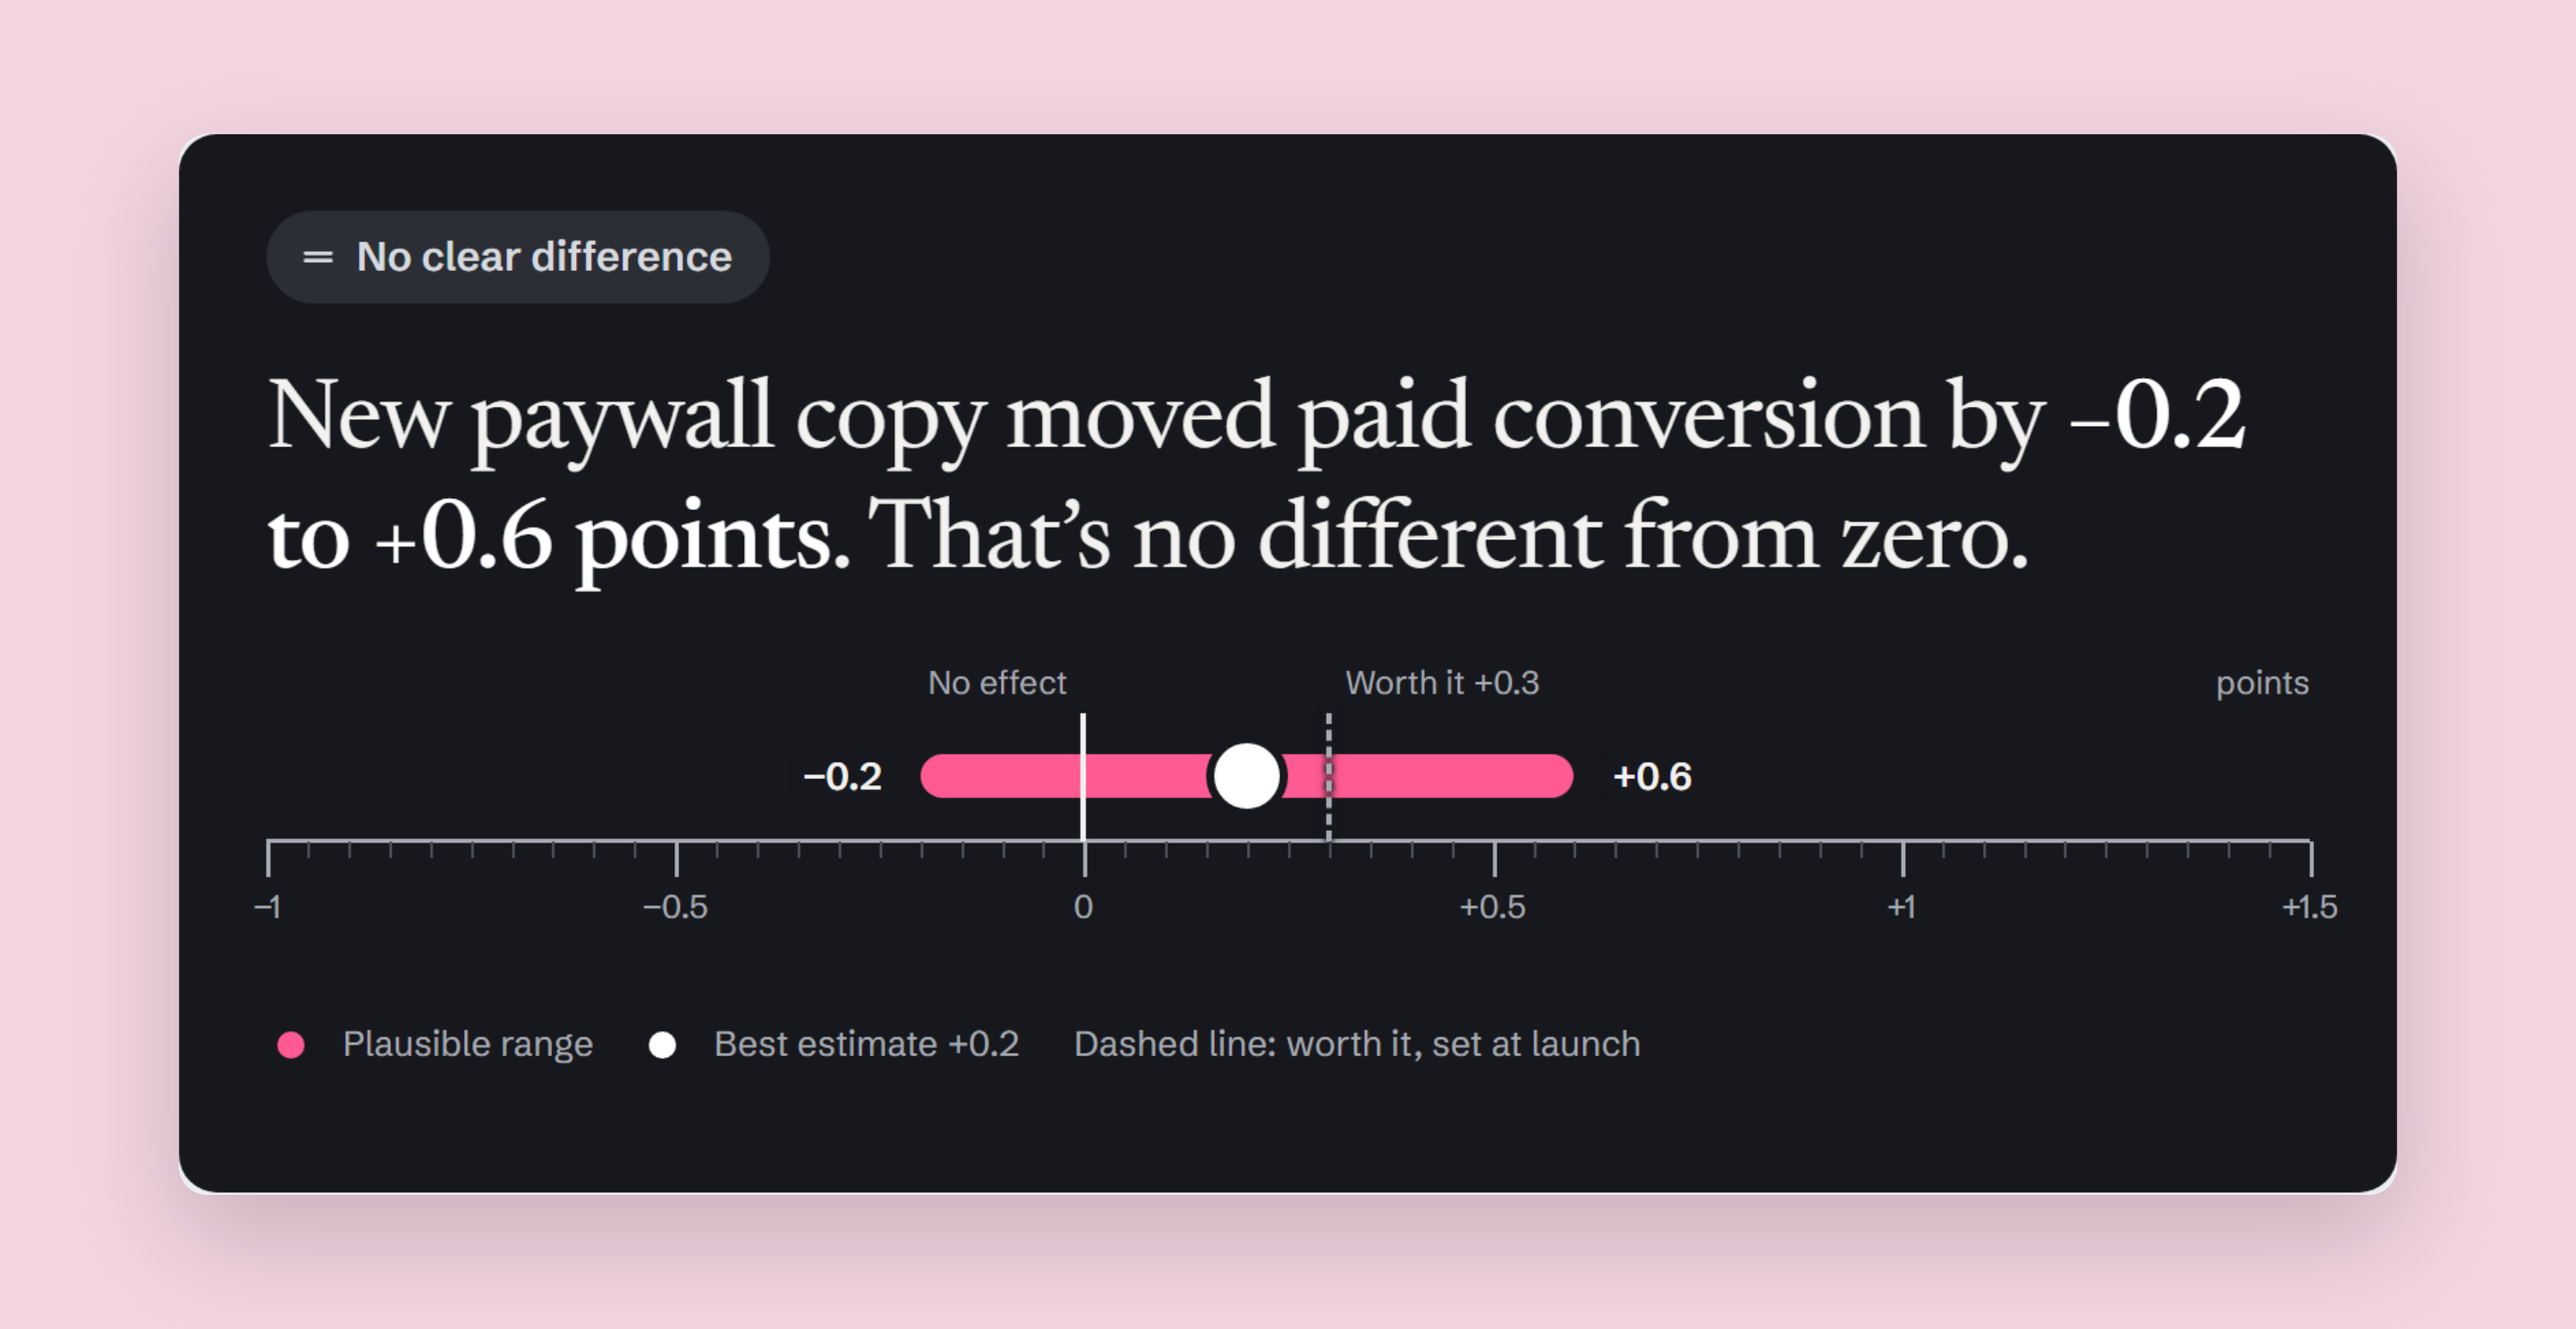
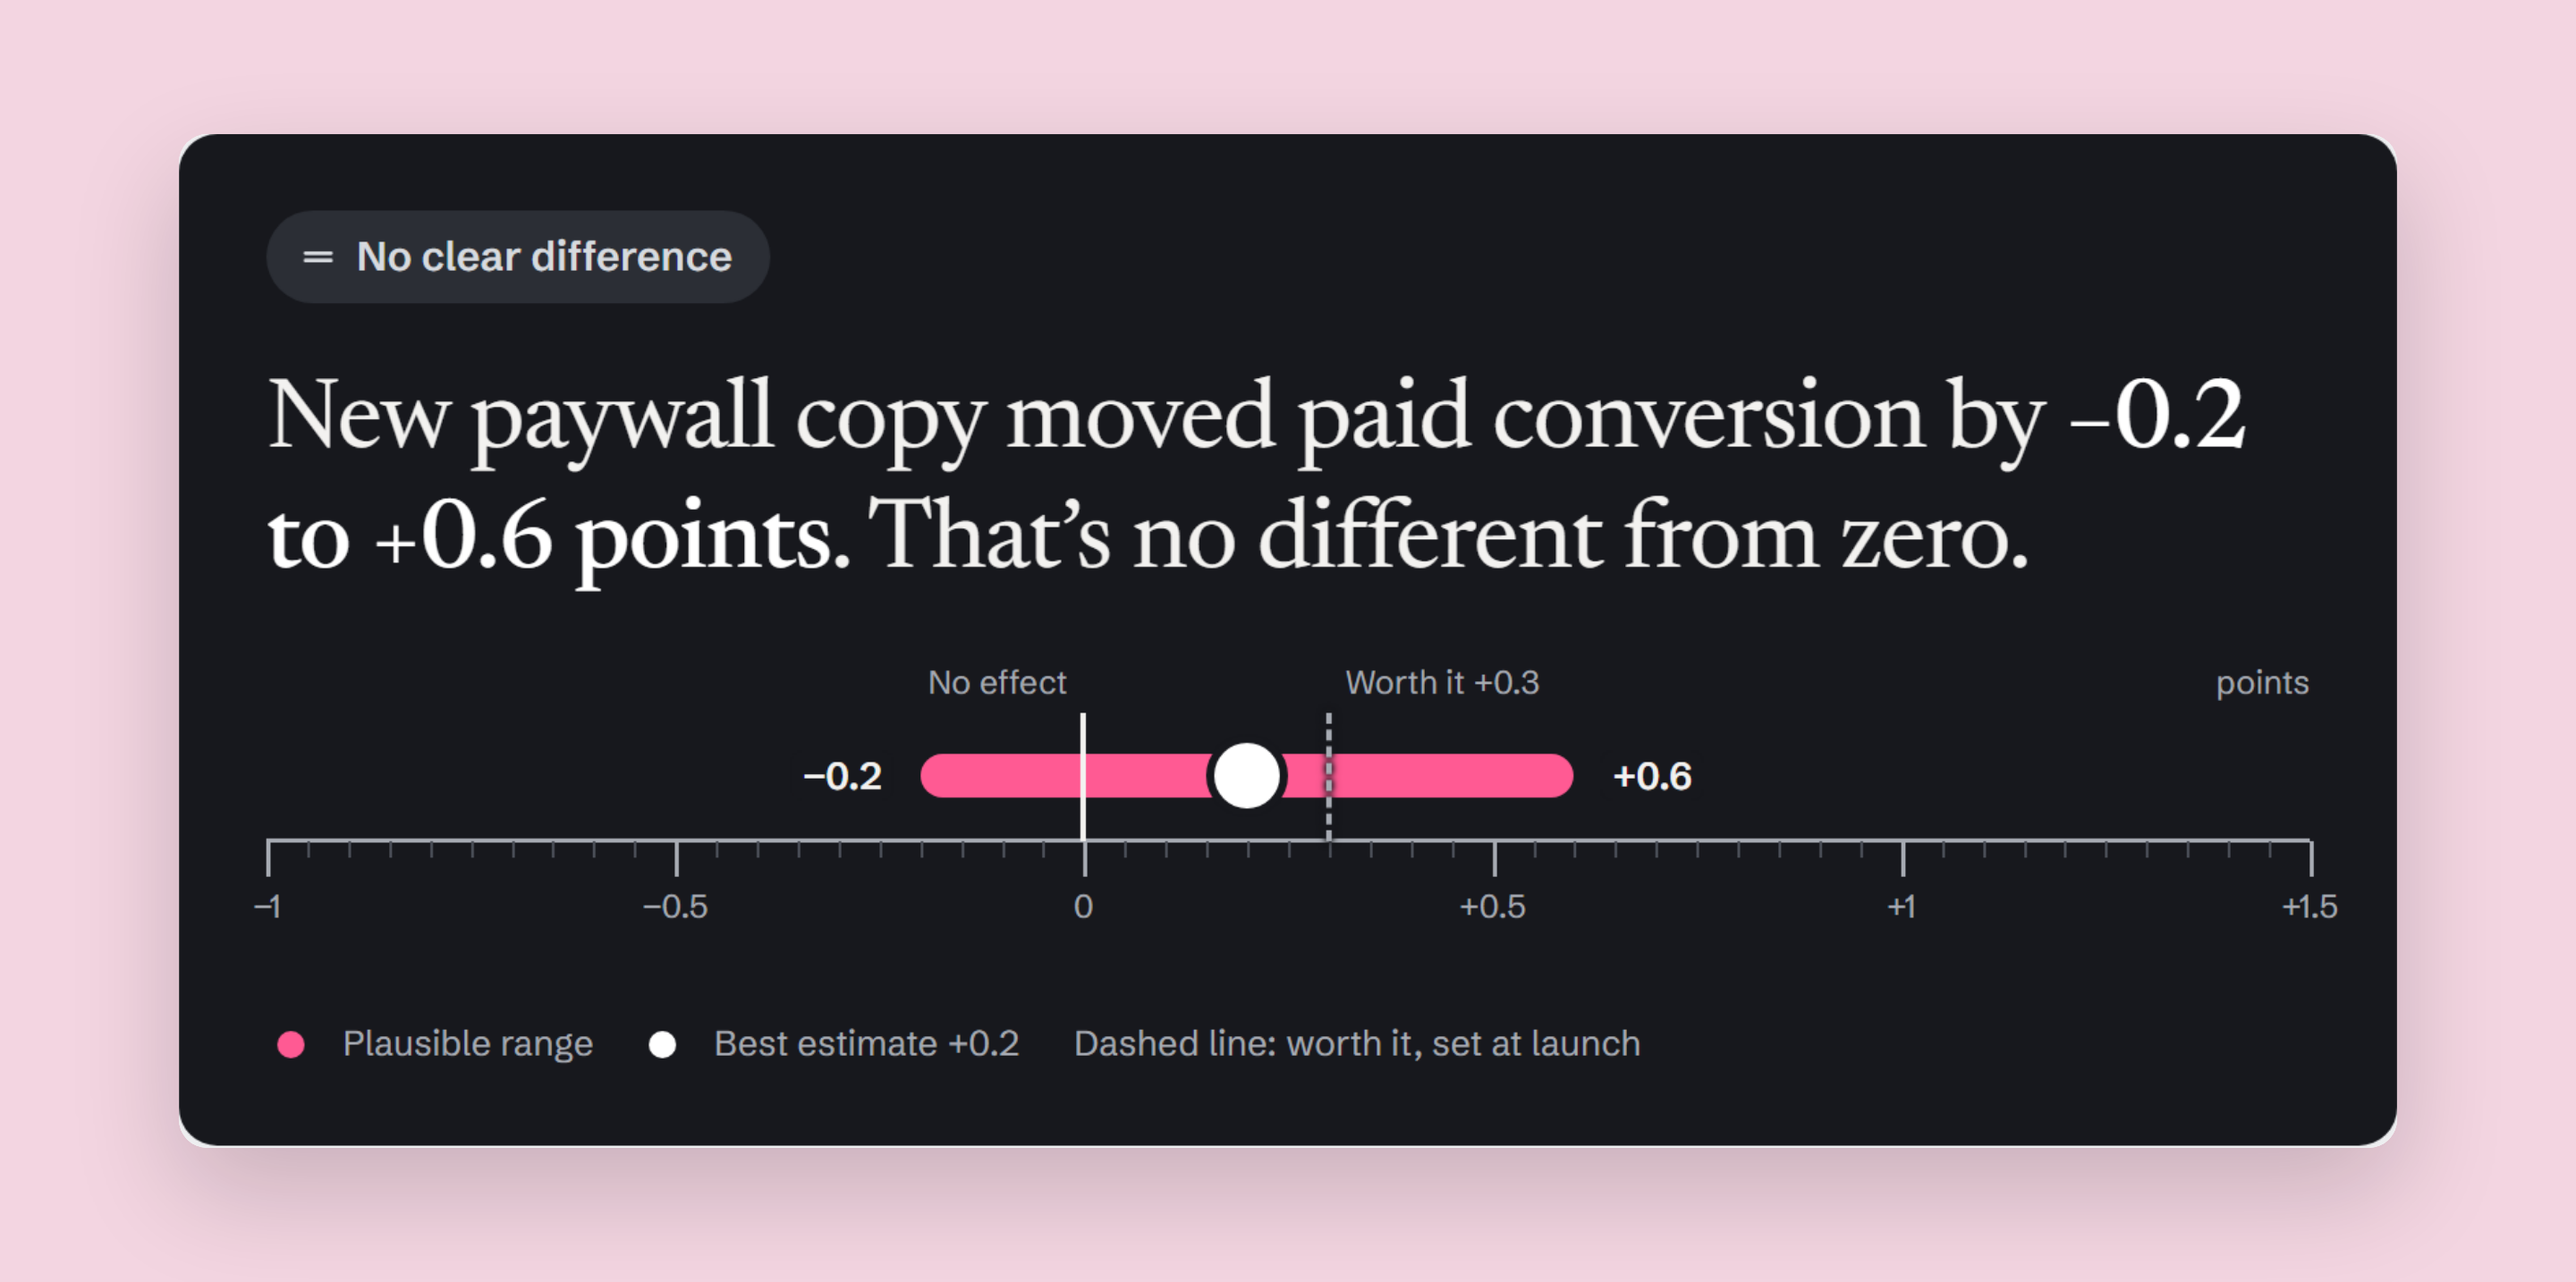
Mira: fill the dead space in the app screens and case images
Before screen re-laid out: lift and table side by side, a full-height
chart, all 12 segments sorted by lift. Result screens end the plan panel
with the checks made before the verdict and read the declared segments in
one line. Setup shows the decision rule fixed at launch and how the plan
changes if the worth-it line moves. Case images 01, 02, 07, 09, 10 updated.

diff --git a/mira-experiment-results.html b/mira-experiment-results.html
@@ -52,7 +52,7 @@
 <p class="reveal">Every screen shows Mira’s demo workspace, Rozklad, a class-booking app for gyms: 182,000 visits in 30&nbsp;days, 1,690 paid plans. The old results page put the lift in big type next to a green “Significant” badge, with the p-value in small grey text. Results appeared from the first hour of a test.</p>
 <p class="reveal">Page logs showed how it was read. 72% of visits to a result lasted under 40&nbsp;seconds, only 9% scrolled down to the interval, and 58% of views came before the planned sample was in.</p>
 <p class="reveal">This is a solo concept, written the way it would run in a team: a product lead, an analyst, two front-end engineers and me. I ran the research, the design and the test. Six weeks of design, then an eight-week pilot.</p>
-<div class="media reveal"><figure class="fig"><img src="img/mira-experiment-results/02-before.webp" alt="The old results page: +18% in big type with a green Significant badge on day 3 of 14, the p-value in small grey text, and a segment table with another Significant badge" width="2048" height="1316" loading="lazy" decoding="async"><figcaption>Before: lift in big type, a green badge on day 3, the p-value in small print</figcaption></figure></div>
+<div class="media reveal"><figure class="fig"><img src="img/mira-experiment-results/02-before.webp" alt="The old results page on day 3 of 14: +18% in big type with a green Significant badge and the p-value in small grey text, conversion by day, and all 12 segments sorted by lift with one marked Significant" width="2048" height="1316" loading="lazy" decoding="async"><figcaption>Before: lift in big type, a green badge on day 3, the p-value in small print</figcaption></figure></div>
 <h2 class="reveal">Constraints</h2>
 <ul class="reveal"><li><strong>The statistics engine stays.</strong> Fixed-sample tests, as the teams already plan them. I could change how a result reads, not the maths behind it.</li><li><strong>Analysts still need p-values.</strong> They sign results off, and someone asks them “is this significant?” six times a week.</li><li><strong>The screen can’t invent a threshold.</strong> What counts as worth shipping is the team’s call, so it has to be set before the test starts.</li><li><strong>The page itself can’t be A/B tested.</strong> Whether a decision was right shows up months later, in a holdout.</li></ul>
 <h2 class="reveal">Process</h2>
@@ -76,7 +76,7 @@
 <h2 class="reveal">A sentence first, then the range</h2>
 <p class="reveal">The result opens with a sentence a product manager can repeat at review, with the range in it: “likely raises 7-day repeat bookings by +0.9 to +3.3&nbsp;points.” Under it, the ruler shows zero, the worth-it line the team set at launch and the plausible range. Mira comes from “міра”, Ukrainian for “measure”, so the ruler is the product’s one memorable element: a dark instrument panel, a graduated rule, a raspberry range. Everything around it stays quiet grey.</p>
 <p class="reveal">A flat test gets the same treatment. The paywall copy moved paid conversion by −0.2 to +0.6&nbsp;points, so the sentence says it’s no different from zero.</p>
-<div class="media reveal"><figure class="fig"><img src="img/mira-experiment-results/07-flat.webp" alt="Paywall copy result panel: No clear difference, the sentence “moved paid conversion by −0.2 to +0.6 points” and a range that crosses zero and the +0.3 worth-it line" width="2048" height="1057" loading="lazy" decoding="async"><figcaption>No clear difference: the range crosses zero and the worth-it line</figcaption></figure></div>
+<div class="media reveal"><figure class="fig"><img src="img/mira-experiment-results/07-flat.webp" alt="Paywall copy result panel: No clear difference, the sentence “moved paid conversion by −0.2 to +0.6 points” and a range that crosses zero and the +0.3 worth-it line" width="2048" height="1020" loading="lazy" decoding="async"><figcaption>No clear difference: the range crosses zero and the worth-it line</figcaption></figure></div>
 <p class="reveal">Analysts keep everything they had, one click away in Details: p-value, z, relative interval, power and the sample ratio check.</p>
 <h2 class="reveal">Too early is a state, not a missing number</h2>
 <p class="reveal">Until the planned sample is in, there is no lift and no range. The panel says how much of the sample is collected and when the verdict comes. The guardrail metrics are checked meanwhile, because harm can stop a test early. Benefit can’t.</p>
@@ -84,7 +84,7 @@
 <p class="reveal">When something goes wrong, the panel says so in the same way: a guardrail breach stops the test and shows how far over the limit it went.</p>
 <div class="media reveal"><figure class="fig"><img src="img/mira-experiment-results/09-breach.webp" alt="Evening class reminder stopped by a guardrail: Don’t ship, the sentence “Unsubscribes rose by +0.4 to +0.8 points, over your +0.3 points limit, so the test stopped” and the range past the dashed limit line" width="2048" height="1020" loading="lazy" decoding="async"><figcaption>A guardrail stops the test and says by how much</figcaption></figure></div>
 <p class="reveal">The worth-it line is set when the test is created. Mira turns it into a planned sample, 14,366&nbsp;members per group, and a verdict date.</p>
-<div class="media reveal"><figure class="fig"><img src="img/mira-experiment-results/10-setup.webp" alt="New experiment form: the worth-it line set to +1.5 points, a preview of how the result will read, and the plan it needs, 14,366 members per group and a verdict on 6 Nov" width="2048" height="734" loading="lazy" decoding="async"><figcaption>The line is set before anyone sees a result</figcaption></figure></div>
+<div class="media reveal"><figure class="fig"><img src="img/mira-experiment-results/10-setup.webp" alt="New experiment form: the worth-it line set to +1.5 points and a preview of how the result will read; next to it the plan it needs, 14,366 members per group over 14 days, and how the plan changes if the line moves to +1 or +2 points" width="2048" height="929" loading="lazy" decoding="async"><figcaption>The line is set before anyone sees a result</figcaption></figure></div>
 <h2 class="reveal">Segments can’t rescue a flat test</h2>
 <p class="reveal">Exploratory segments come with a warning and a correction for multiple comparisons. With 12 segments, a win can show up by chance alone. In the paywall test, “iOS, evening” looked like a win at +0.1 to +2.7&nbsp;points. Corrected, it is −0.5 to +3.3: no different from zero.</p>
 <div class="media reveal"><figure class="fig"><img src="img/mira-experiment-results/11-segments.webp" alt="Exploratory segments of the paywall test, corrected for 12 looks: iOS, evening runs from −0.5 to +3.3 points after adjusting, against +0.1 to +2.7 before" width="2048" height="802" loading="lazy" decoding="async"><figcaption>Twelve segments, corrected for chance</figcaption></figure></div>
